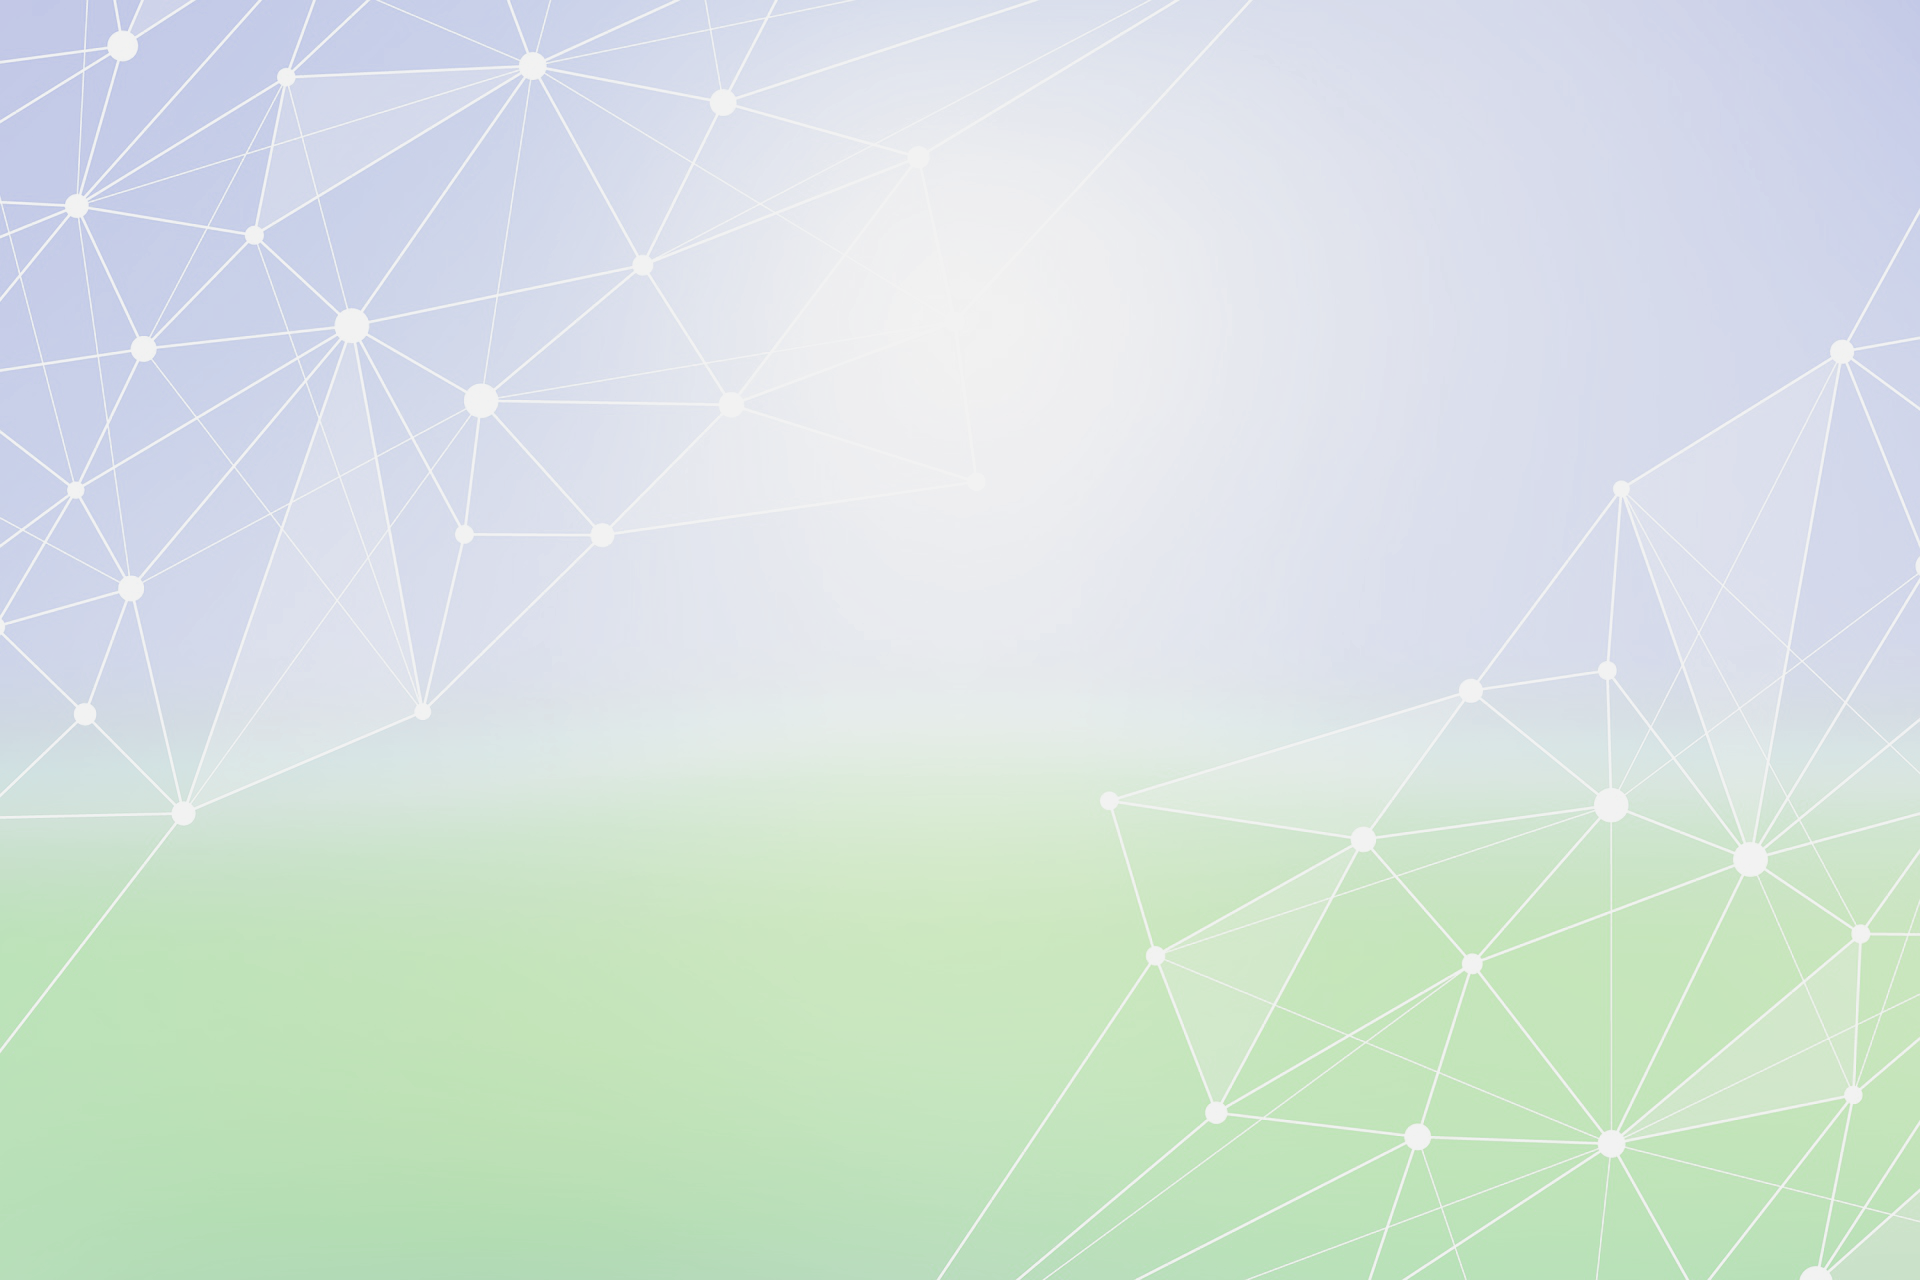
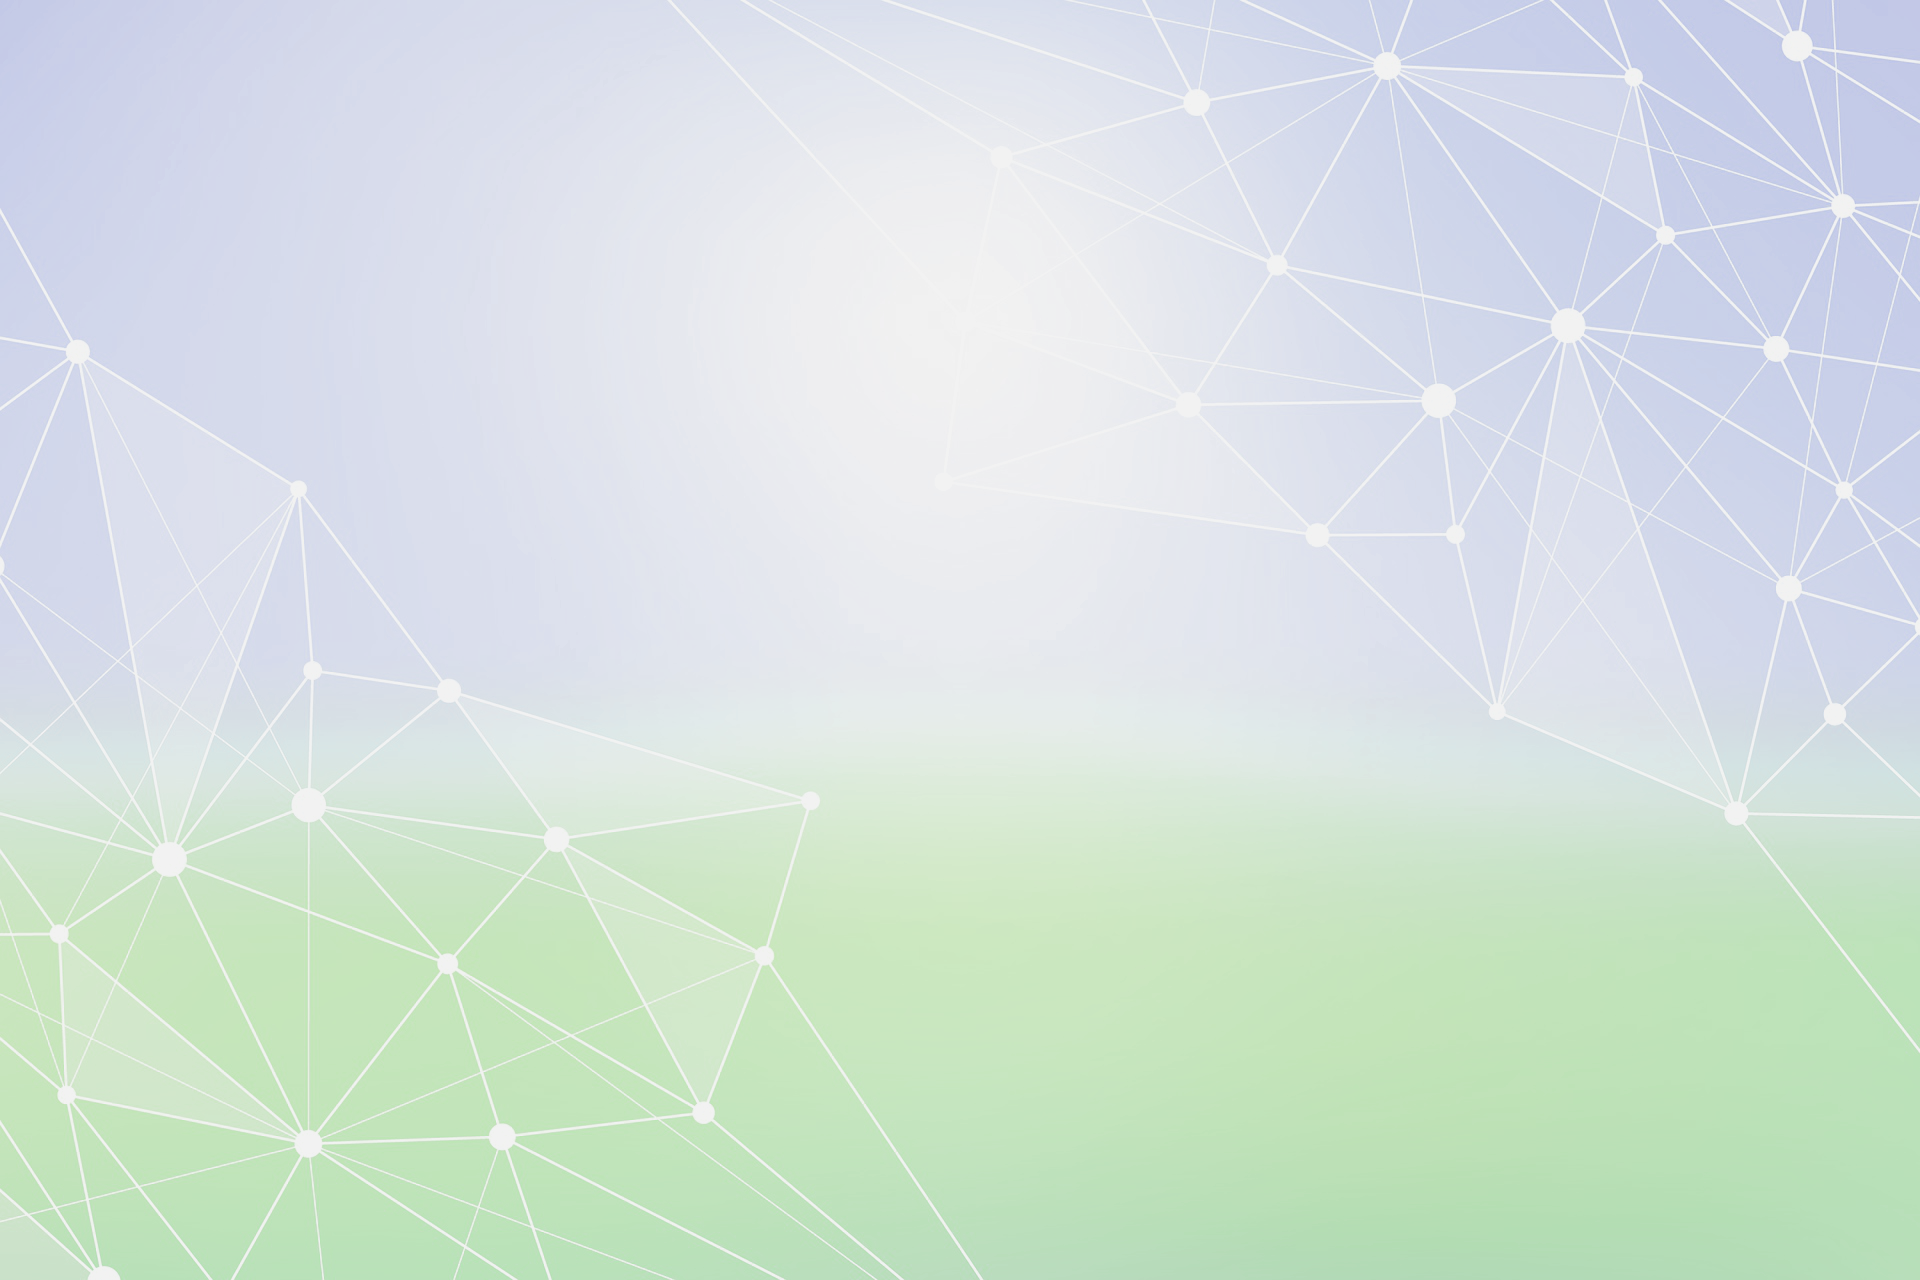
Remove extraneous imgs, update mono2 theme to almost palatable status

diff --git a/v1/styles/themes.css b/v1/styles/themes.css
@@ -135,11 +135,12 @@
 
 /*** monochrome2 theme, based on https://coolors.co/972045-e0e0ef-3b5099-102a83-0b1b54 ***/
 .mono2-body {
-  background-image: url('../../img/diags2.png');
+  /* image artist is Manuchi on pixabay: https://pixabay.com/en/users/Manuchi-1728328/ */
+  background-image: linear-gradient(to right, rgba(255, 255, 255, 0) 0%, white 20%, white 80%, rgba(255, 255, 255, 0) 100%), url('../../img/diags2.png');
   background-position: center;
   background-repeat: no-repeat;
   background-size: cover;
-  box-shadow: inset 0 0 0 1000px rgba(256, 256, 256, 0.3);
+  /* box-shadow: inset 0 0 0 1000px rgba(256, 256, 256, 0.4); */
   color: #080808;
 }
 
@@ -157,7 +158,7 @@
 }
 
 .mono2-menubar, nav.mono2-menubar .dropdown-menu {
-  background: #64C8F3;
+  background: #102A83;
 }
 
 /* currently do not apply */
